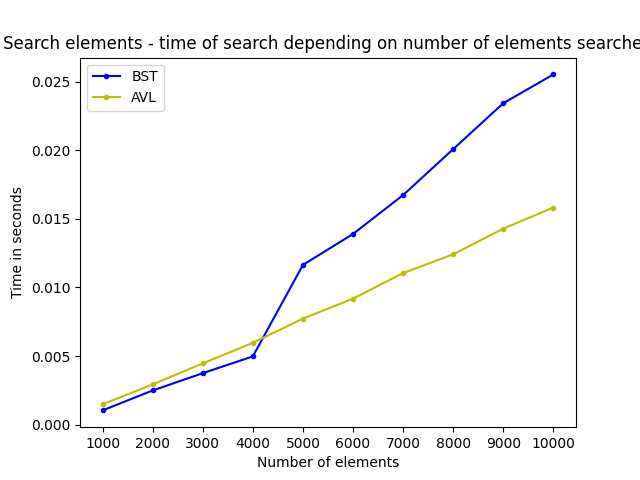
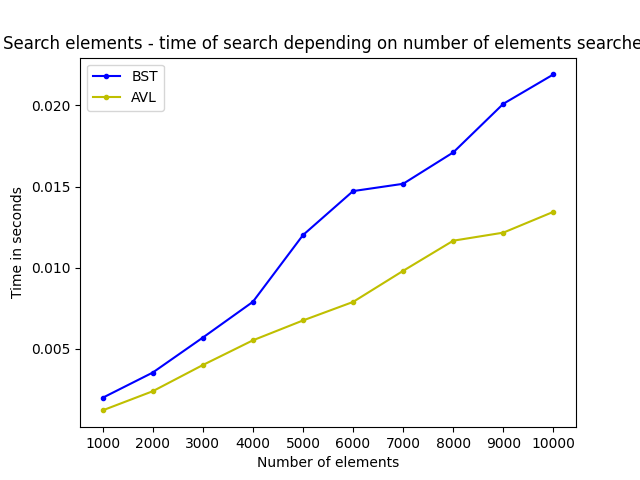
removed recursion + final graphs added

diff --git a/AISDI-22L-3-Drzewa/bstree.py b/AISDI-22L-3-Drzewa/bstree.py
@@ -103,25 +103,42 @@ class Binary_Search_Tree_Node:
                     break
 
     def delete(self, value):
-        if self.value is None:
+        current = self
+        previous = None
+        while(current is not None and current.value is not None and
+                current.value != value):
+            previous = current
+            if current.value < value:
+                current = current.right_tree
+            else:
+                current = current.left_tree
+        if current is None:
             return self
-        if value < self.value:
-            if self.left_tree:
-                self.left_tree = self.left_tree.delete(value)
-            return self
-        elif value > self.value:
-            if self.right_tree:
-                self.right_tree = self.right_tree.delete(value)
-            return self
-        if self.right_tree is None:
-            return self.left_tree
-        if self.left_tree is None:
-            return self.right_tree
-        follower = self.right_tree
-        while follower.left_tree:
-            follower = follower.left_tree
-        self.value = follower.value
-        self.right_tree = self.right_tree.delete(follower.value)
+        if current.left_tree is None or current.right_tree is None:
+            new_current = None
+            if current.left_tree is None:
+                new_current = current.right_tree
+            else:
+                new_current = current.left_tree
+            if previous is None:
+                return new_current
+            if current == previous.left_tree:
+                previous.left_tree = new_current
+            else:
+                previous.right_tree = new_current
+            current = None
+        else:
+            parent = None
+            follower = current.right_tree
+            while follower.left_tree is not None:
+                parent = follower
+                follower = follower.left_tree
+            if parent is not None:
+                parent.left_tree = follower.right_tree
+            else:
+                current.right_tree = follower.right_tree
+            current.value = follower.value
+            follower = None
         return self
 
     def search(self, value):
